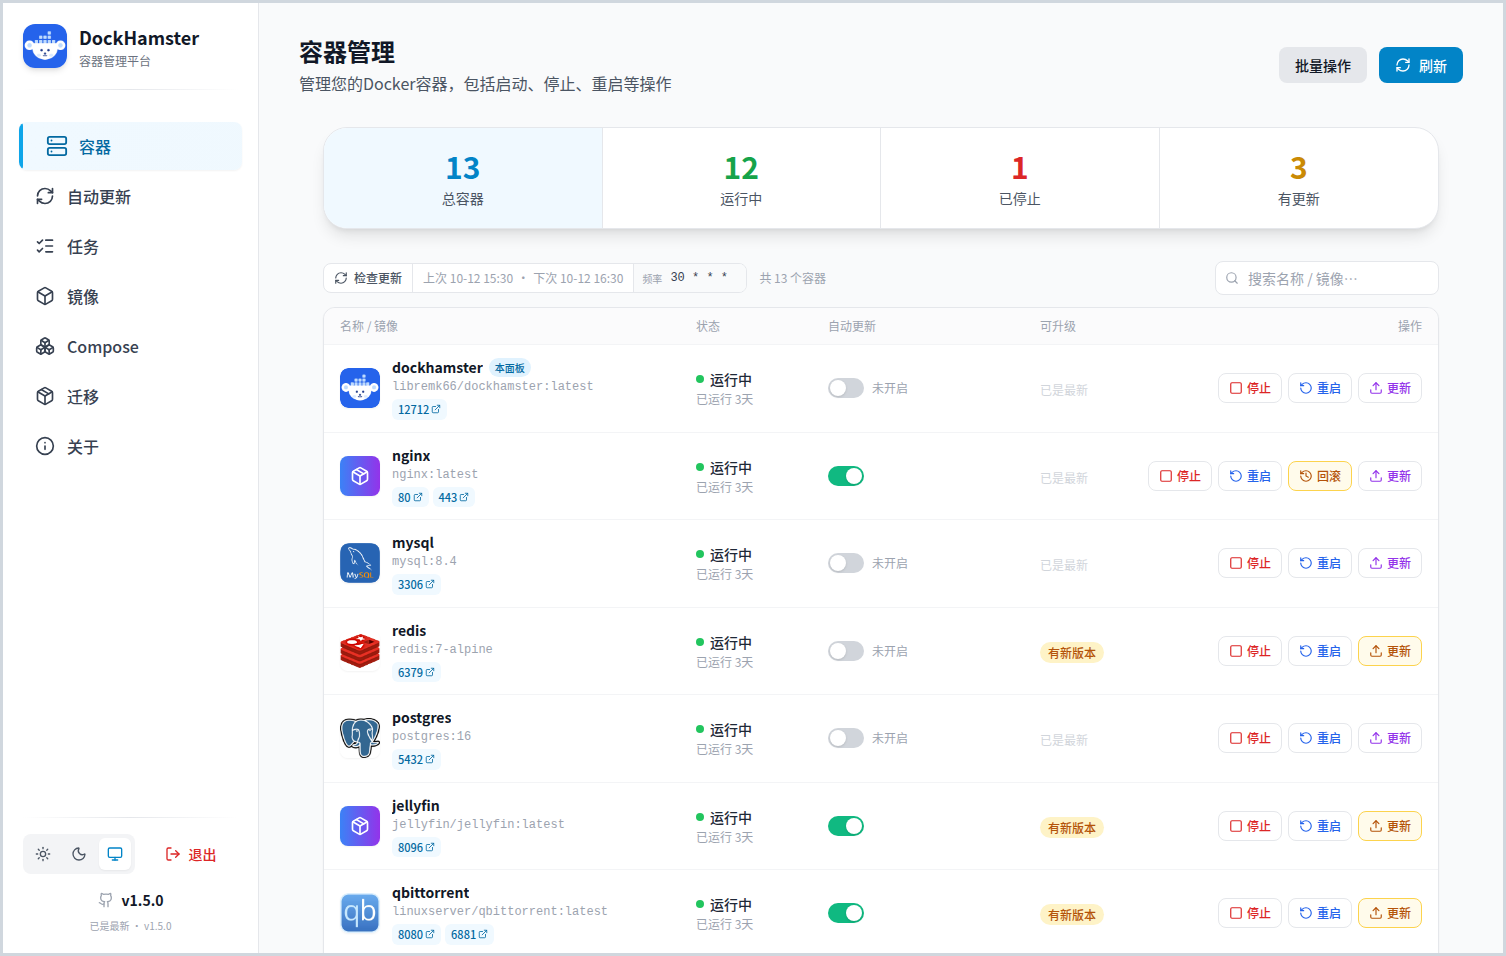
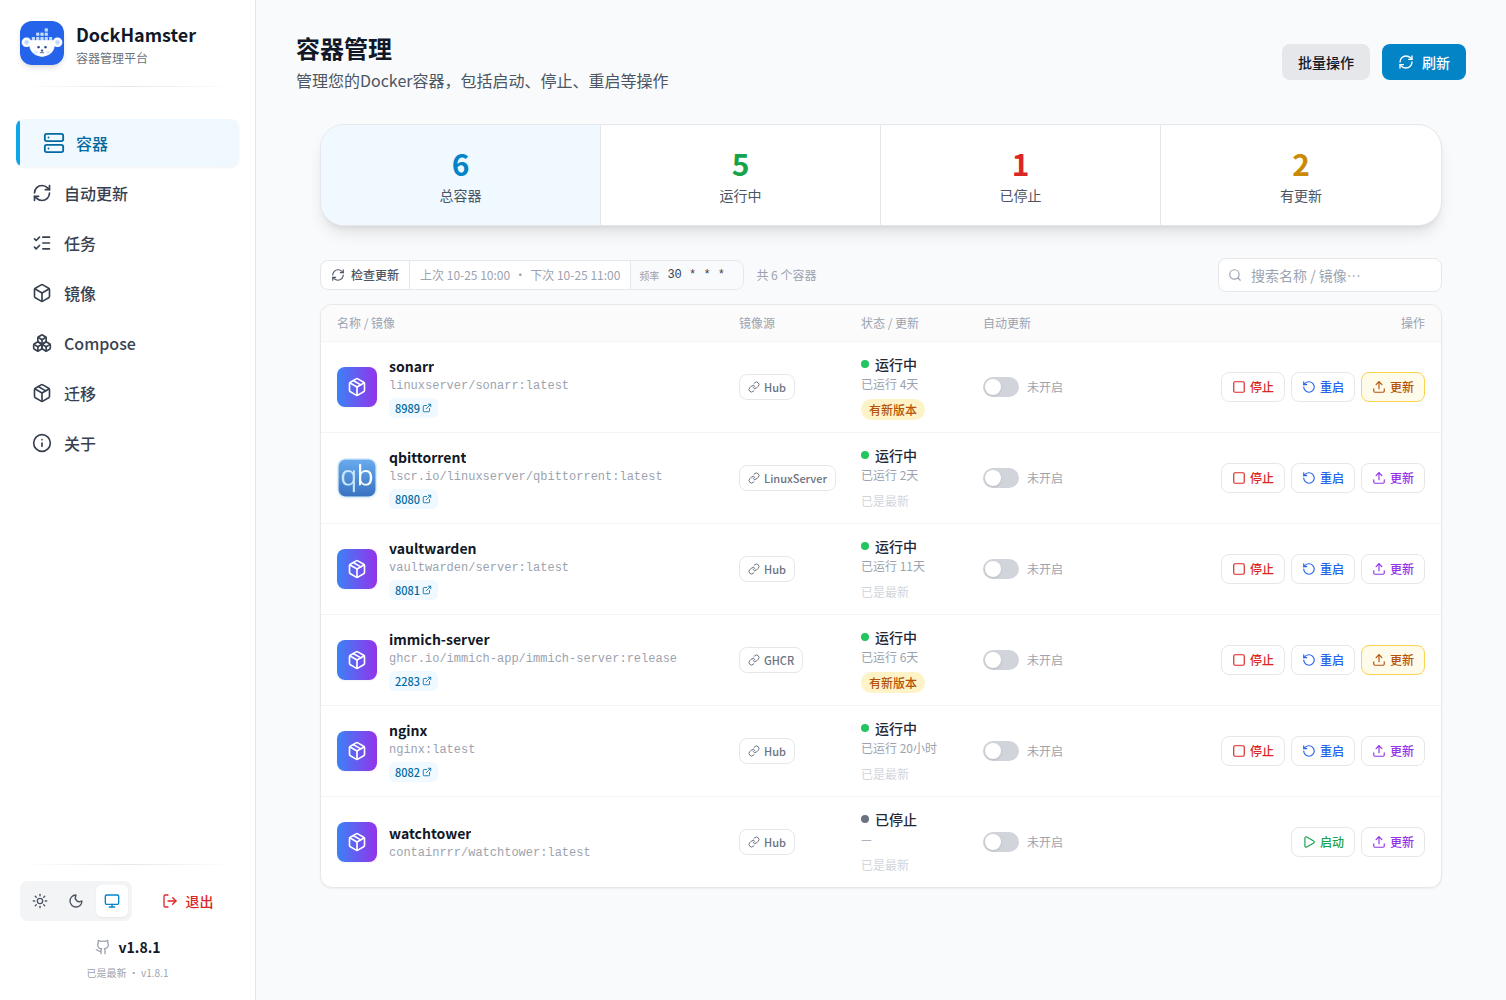
docs: 更新 v1.8.1 功能说明与容器页截图

diff --git a/FEATURES.md b/FEATURES.md
@@ -103,8 +103,10 @@
 
 ### 8. 列表化界面与搜索
 
-- **容器页**：一行 = 一个容器，列：名称/镜像 · 状态 · 自动更新（行内开关 + 上次结果）· 可升级 · 操作；更新中该行下方展开进度子行
-- **镜像页**：一行 = 一个镜像，列：镜像 · 大小 · 使用情况（使用中/未使用药丸）· 创建时间 · 操作（Hub/GHCR 跳转 · 删除 / 强删）；悬空镜像标注"无标签（悬空）"；「Hub」按钮按镜像来源跳对应仓库页（Docker Hub → hub.docker.com，ghcr.io → GitHub Packages，其它 registry 不显示）
+- **容器页**：一行 = 一个容器，列：名称/镜像 · 镜像源 · 状态/更新（含可升级徽标）· 自动更新（行内开关 + 上次结果）· 操作；更新中该行下方展开进度子行
+- **镜像源列**：按实际拉取来源显示 Docker Hub / GHCR / LinuxServer 官方文档入口（`lscr.io/linuxserver/<app>` → `docs.linuxserver.io/images/docker-<app>/`）；第三方 registry 与本地构建不伪造链接
+- **响应式布局**：≥1400px 五列表格；1024–1399px 卡片式（名称/镜像全宽，状态 / 镜像源 / 自动更新一行，操作在右下）；手机端纵向排列
+- **镜像页**：一行 = 一个镜像，列：镜像 · 大小 · 使用情况（使用中/未使用药丸）· 创建时间 · 操作（Hub/GHCR/LinuxServer 跳转 · 删除 / 强删）；悬空镜像标注"无标签（悬空）"；按钮按镜像来源跳对应仓库页（Docker Hub → hub.docker.com，ghcr.io → GitHub Packages，lscr.io/linuxserver → LinuxServer 文档，其它 registry 不显示）
 - **搜索**：容器按名称/镜像、镜像按名称/Tag/ID 实时过滤，带"筛选出 X / 共 Y"计数与无结果提示
 - 交互保持不变：点行打开详情，Ctrl/Cmd+点击或批量模式勾选；统计卡筛选与搜索叠加生效
 - 移动端自动折行排版（每行折为「标题行 + 信息行 + 操作行」）
@@ -183,6 +185,8 @@ checksums.txt      校验和（sha256sum -c 可验证完整性）
 更新的最后一步是**健康校验**：启动新容器后连续 3 次检查处于运行且未重启（约 6 秒）即通过；容器自带 `HEALTHCHECK` 时按它的结果等待（上限约 90 秒）。
 
 出现以下任一情况判失败并**自动回滚**：启动后退出、反复重启（Restarting）、被 OOM 杀掉、健康检查 unhealthy。回滚动作：删除不健康的新容器 → 把备份的旧容器改回原名并启动（原本是停止状态的保持停止）。**创建新容器失败、启动失败同样回滚**——更新失败不会把服务撂倒。校验中间状态实时显示在进度里（`新容器运行正常（1/3）`）。
+
+**旧容器收尾**：新容器健康后，旧容器会再次确认停止；若它被 `restart=always` 或外部操作重新拉起，会再停一次并以 force 清理，避免新旧双实例共存。**失败可见**：任务失败时容器页弹出 daemon 原始错误（例如旧容器无法删除），不再静默清掉进度条。
 
 ### 14. 容器异常守护
 

diff --git a/README.md b/README.md
@@ -49,6 +49,8 @@
 - 🔄 **面板自更新**：接力容器替换，失败自动回滚
 - 🐕 **容器守护**：退出 / OOM / 反复重启告警，恢复也通知
 - 🧭 **端口直达**：容器端口一键开 Web 界面；图标自动匹配
+- 🔗 **镜像源直达**：容器 / 镜像行按实际拉取来源显示 Docker Hub / GHCR / LinuxServer 文档入口；第三方 registry 不伪造链接
+- 📐 **响应式容器页**：宽屏五列表格，窄屏卡片布局；名称 / 镜像列不再被状态与操作挤压
 - 🧩 **Compose 项目视图**：按项目分组看全貌（文件可达性 / 挂载引导 / 变量体检 / 原文日志）；更新走 compose 原生语义；配置可导出、可定时备份到 WebDAV
 - 🩹 **上游修复**：多 RepoDigests 误报、缓存并发、更新保持原状态、无标签镜像不再误报"有更新"
 - 🧹 **资源清理**：未使用卷 / 网络 / 构建中间层分类清理；停用项目的卷逐卷勾选确认后才删
@@ -57,7 +59,7 @@
 
 ## 三、界面预览
 
-**容器页**（列表行内即为自动更新开关与上次结果；运行中容器的端口直接显示为可点按钮，图标自动匹配；更新中的容器在整行下方展开实时进度；无标签镜像标记「无法检测」而非误报有新版本）：
+**容器页**（列表行内即为自动更新开关与上次结果；镜像源列直达 Hub / GHCR / LinuxServer 文档；运行中容器的端口直接显示为可点按钮，图标自动匹配；更新中的容器在整行下方展开实时进度；无标签镜像标记「无法检测」而非误报有新版本；宽屏表格 / 窄屏卡片）：
 
 ![容器页](docs/screenshots/containers.png)
 

diff --git a/CHANGELOG.md b/CHANGELOG.md
@@ -1,0 +1,28 @@
+# Changelog
+
+本项目的用户可见变更记录。版本号以仓库根目录 `version` 文件为准。
+
+## v1.8.1 — 2026-10-25
+
+### 修复
+
+- 更新完成后旧容器可能因 `restart=always` 或外部操作被重新拉起，导致新旧容器并存；现在先禁用旧容器重启、再次确认停止，并用 force 清理。
+- 更新任务失败时，容器页弹出 daemon 实际错误（例如旧容器无法删除），不再静默清掉进度条。
+
+### 新增
+
+- 容器 / 镜像页按实际拉取来源显示 Docker Hub、GHCR、LinuxServer 文档入口；第三方 registry 与本地构建不出坏链。
+- 容器页响应式列布局：≥1400px 五列表格，1024–1399px 卡片式，移动端纵向排列；镜像源独立成列，状态与可升级信息合并，名称 / 镜像列不再被挤压。
+
+### 维护
+
+- 移除前端仓库历史误跟踪的 `.DS_Store`、`.idea/*` 与 `dist/index.html`。
+
+### 升级说明
+
+- 无破坏性变更，无数据库 / 迁移。
+- 镜像：`libremk66/dockhamster:v1.8.1`（`latest` 同步更新，多架构 amd64/arm64）。
+- 更新方式：面板内更新 `dockhamster` 容器，或 `docker compose pull && docker compose up -d`。
+
+[Unreleased]: https://github.com/libremk66/DockHamster/compare/v1.8.1...HEAD
+[v1.8.1]: https://github.com/libremk66/DockHamster/compare/v1.8.0...v1.8.1
